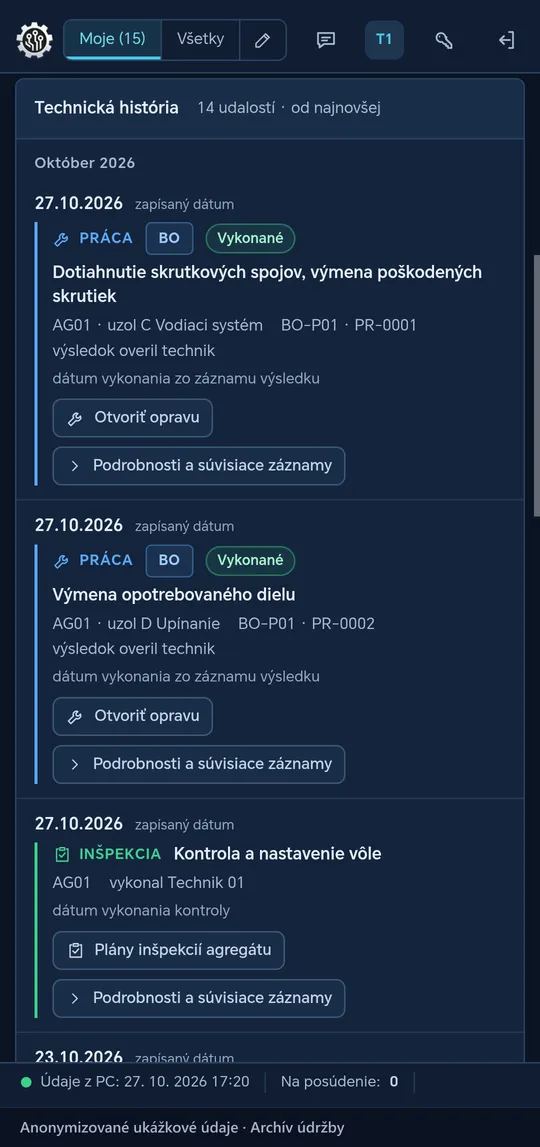
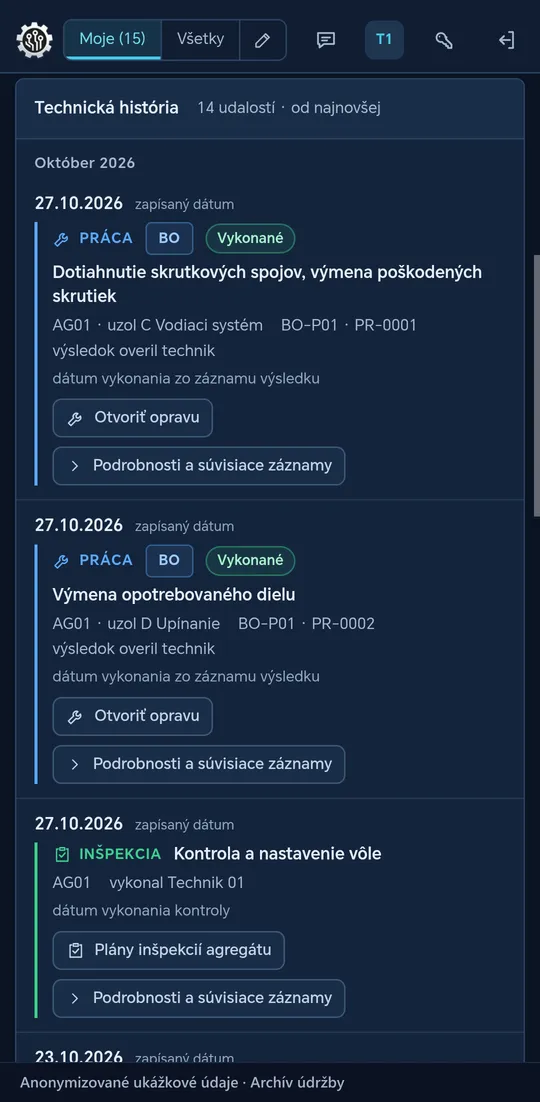
Archív údržby: na webe len prevádzka online
- karta „Online, na PC aj v telefóne“ namiesto offline režimu a prenosu
  cez USB (to je len súčasná verzia pre jedného človeka); súhrn, krátky
  opis, riešenie a modul Prevádzka hovoria o rovnakých údajoch online
- mobilné snímky bez spodnej lišty „Údaje z PC“; karta agregátu s rámčekom
  „Offline údaje…“ nahradená anonymizovanou snímkou Plánu výmen

diff --git a/app/(v2)/projects.ts b/app/(v2)/projects.ts
@@ -255,23 +255,24 @@ export const projects: Project[] = [
     // Funkcie podľa prehliadky aplikácie v telefóne (1. 11. 2026, všetkých 12 modulov)
     // a README projektu Archív údržby; bez interných názvov a adries.
     summary:
-      'Evidencia opráv a údržby od požiadavky po uzatvorenie opravy: plán, poruchy, inšpekcie, výmeny a karta agregátu. Pripravená pre celý tím online aj pre telefón bez pripojenia.',
+      'Evidencia opráv a údržby od požiadavky po uzatvorenie opravy: plán, poruchy, inšpekcie, výmeny a karta agregátu. Beží online, na PC aj v telefóne.',
     highlight:
-      'Požiadavky, opravy BO/SO/GO/VP, poruchy, inšpekcie, plán výmen a karta agregátu. Pre tím s rolami, online aj v telefóne bez pripojenia. Samostatná aplikácia, oddelená od Techbases.',
+      'Požiadavky, opravy BO/SO/GO/VP, poruchy, inšpekcie, plán výmen a karta agregátu. Pre tím s rolami, online na PC aj v telefóne. Samostatná aplikácia, oddelená od Techbases.',
     briefLabel: 'Účel',
     brief:
       'Auditovateľný proces opráv BO, SO, GO a VP: požiadavka, posúdenie, publikovaný plán, realizácia, overenie a uzatvorenie. K tomu evidencia porúch, inšpekcií a výmen.',
     // Pripravená pre viac používateľov; zatiaľ beží ako autorova vlastná verzia
-    // (firemné nasadenie netvrdiť – Marek Belko, 1. 11. 2026).
+    // (firemné nasadenie netvrdiť – Marek Belko, 1. 11. 2026). Pre firmy sa opisuje
+    // prevádzka online; prenos cez USB patrí len k súčasnej verzii pre jedného človeka.
     solution:
-      'Jedna aplikácia pre tím údržby s rolami pre pracovníkov, inšpekčných zámočníkov, majstrov, technikov a vedenie. Je pripravená na prevádzku online v prehliadači a beží v telefóne s Androidom, kde pracuje aj bez pripojenia s údajmi nahratými z PC.',
-    featuresTitle: 'V telefóne',
+      'Jedna aplikácia pre tím údržby s rolami pre pracovníkov, inšpekčných zámočníkov, majstrov, technikov a vedenie. Beží online v prehliadači na PC aj v telefóne, takže všetci pracujú s tými istými údajmi.',
+    featuresTitle: 'Online, na PC aj v telefóne',
     features: [
-      'celá evidencia v telefóne aj bez pripojenia: prehľad, opravy, plán, karta agregátu a štatistika prestojov',
-      'údaje sa do telefónu nahrajú z PC cez USB jedným krokom „Aktualizovať telefón“',
-      'v teréne sa zapisujú poruchy s fotkami z fotoaparátu a vykonané inšpekcie',
-      'zápisy z telefónu sa pri ďalšej aktualizácii prenesú do PC; rovnaký zápis sa neprenesie dvakrát a konflikt so zmenou na PC sa odmietne s dôvodom',
-      'ostatné zmeny, výkresy a dokumenty sa robia a otvárajú na PC',
+      'všetko beží online: PC aj telefón pracujú s tými istými údajmi, nič sa neprenáša ručne',
+      'čo technik zapíše v telefóne pri zariadení, hneď vidí majster aj vedenie na PC',
+      'v teréne sa zapisujú poruchy s fotkami z fotoaparátu, vykonané inšpekcie aj nové požiadavky',
+      'každý vidí a robí len to, čo mu dovoľuje jeho rola',
+      'každá zmena je v audite s menom, časom a dôvodom',
     ],
     modules: [
       {
@@ -365,9 +366,9 @@ export const projects: Project[] = [
       {
         title: 'Prevádzka',
         items: [
-          'pripravená na prevádzku online v prehliadači: server vo firemnej sieti alebo cloud',
+          'beží online v prehliadači: na serveri vo firemnej sieti alebo v cloude',
           'pre viac používateľov naraz, každý so svojou rolou a „Mojimi agregátmi“',
-          'telefón s Androidom aj bez pripojenia; denné zálohy s kontrolou integrity',
+          'na PC aj v telefóne s rovnakými údajmi; denné zálohy s kontrolou integrity',
         ],
       },
     ],
@@ -384,21 +385,21 @@ export const projects: Project[] = [
         alt: 'Archív údržby v mobile, Prehľad: požiadavky na posúdenie, výmeny po termíne, prestoj za 30 dní, inšpekcie a najbližšia oprava. Údaje sú anonymizované.',
         caption: 'Prehľad: úlohy, prestoj a najbližšia oprava',
         width: 540,
-        height: 1147,
+        height: 1102,
       },
       {
-        src: '/v2/archiv-udrzby-karta-agregatu.webp',
-        alt: 'Archív údržby v mobile, technická karta agregátu: stredisko, majster, posledná práca, najbližší plán a posledná porucha. Údaje sú anonymizované.',
-        caption: 'Technická karta agregátu',
+        src: '/v2/archiv-udrzby-plan-vymen.webp',
+        alt: 'Archív údržby v mobile, Plán výmen: položky po termíne, blížiace sa, v pláne opravy a v poriadku, zoznam výmen podľa agregátov. Údaje sú anonymizované.',
+        caption: 'Plán výmen: po termíne, blíži sa, v pláne',
         width: 540,
-        height: 1147,
+        height: 1102,
       },
       {
         src: '/v2/archiv-udrzby-historia.webp',
         alt: 'Archív údržby v mobile, technická história agregátu: vykonané práce a inšpekcia s dátumom a uzlom. Údaje sú anonymizované.',
         caption: 'Technická história zásahov',
         width: 540,
-        height: 1147,
+        height: 1102,
       },
     ],
   },

diff --git a/V2_NAVRH.md b/V2_NAVRH.md
@@ -105,16 +105,20 @@ Modelový rozpočet 1 500 € zo zadania V2 nie je schválená cena a na webe ni
 
 ## Snímky firemných nástrojov (1. 11. 2026)
 
-| Súbor (`public/v2/`)                | Rozmer              | Kde je použitý                                                                |
-| ----------------------------------- | ------------------- | ----------------------------------------------------------------------------- |
-| `techbases-prestoje.webp`           | 1600 × 1044, 106 kB | úvod `/#firemne-nastroje`, detail `/realizacie/prevadzkove-prehlady` (Ukážky) |
-| `techbases-prehlad-poloziek.webp`   | 1600 × 1044, 142 kB | detail `/realizacie/prevadzkove-prehlady` (úvodná snímka)                     |
-| `techbases-vydaje-materialu.webp`   | 1600 × 1044, 139 kB | detail `/realizacie/prevadzkove-prehlady` (Ukážky)                            |
-| `archiv-udrzby-karta-agregatu.webp` | 540 × 1147, 39 kB   | úvod `/#firemne-nastroje` (telefón), detail `/realizacie/archiv-udrzby`       |
-| `archiv-udrzby-prehlad.webp`        | 540 × 1147, 33 kB   | detail `/realizacie/archiv-udrzby`                                            |
-| `archiv-udrzby-historia.webp`       | 540 × 1147, 43 kB   | detail `/realizacie/archiv-udrzby`                                            |
+| Súbor (`public/v2/`)              | Rozmer              | Kde je použitý                                                                |
+| --------------------------------- | ------------------- | ----------------------------------------------------------------------------- |
+| `techbases-prestoje.webp`         | 1600 × 1044, 106 kB | úvod `/#firemne-nastroje`, detail `/realizacie/prevadzkove-prehlady` (Ukážky) |
+| `techbases-prehlad-poloziek.webp` | 1600 × 1044, 142 kB | detail `/realizacie/prevadzkove-prehlady` (úvodná snímka)                     |
+| `techbases-vydaje-materialu.webp` | 1600 × 1044, 139 kB | detail `/realizacie/prevadzkove-prehlady` (Ukážky)                            |
+| `archiv-udrzby-plan-vymen.webp`   | 540 × 1102, 38 kB   | úvod `/#firemne-nastroje` (telefón), `/sluzby`, detail Archívu                |
+| `archiv-udrzby-prehlad.webp`      | 540 × 1102, 31 kB   | `/sluzby`, detail `/realizacie/archiv-udrzby`                                 |
+| `archiv-udrzby-historia.webp`     | 540 × 1102, 41 kB   | `/sluzby`, detail `/realizacie/archiv-udrzby`                                 |
 
-PNG zdroje (2880 × 1880 a 1080 × 2294) sú v `assets-src/v2/firemne-nastroje/` pod rovnakými
+Mobilné snímky sú bez spodnej lišty aplikácie „Údaje z PC“ a bez karty agregátu s rámčekom
+„Offline údaje…“ (nahradená Plánom výmen): pochádzajú z autorovej vlastnej verzie s prenosom
+cez USB, kým web firmám opisuje prevádzku online (pokyn Mareka Belka, 1. 11. 2026).
+
+PNG zdroje (2880 × 1880 a 1080 × 2204) sú v `assets-src/v2/firemne-nastroje/` pod rovnakými
 názvami. Každá snímka má spodný pás „Anonymizované ukážkové údaje · …“. Alt texty a popisy
 sú v `projects.ts` a opisujú len funkcie viditeľné na snímke.
 
@@ -337,4 +341,7 @@ zapisujú sa v ňom iba poruchy a inšpekcie a tie sa pri ďalšej aktualizácii
 - Aplikácia je pripravená pre viac používateľov s rolami a na prevádzku online (server vo
   firemnej sieti alebo cloud). **Zatiaľ beží ako vlastná verzia autora** – web netvrdí firemné
   nasadenie ani konkrétnu online adresu.
+- **Web opisuje iba prevádzku online** (PC aj telefón s tými istými údajmi). Prenos cez USB,
+  offline režim a zápis z telefónu s neskorším prenosom patria len k súčasnej verzii pre
+  jedného človeka a na webe nie sú, aby firmy nemali zmätok v tom, ako sa nahrávajú dáta.
 - Výzva „Opísať problém“ v detailoch firemných nástrojov a odkaz na úvode vedú na `/sluzby#dopyt`.
